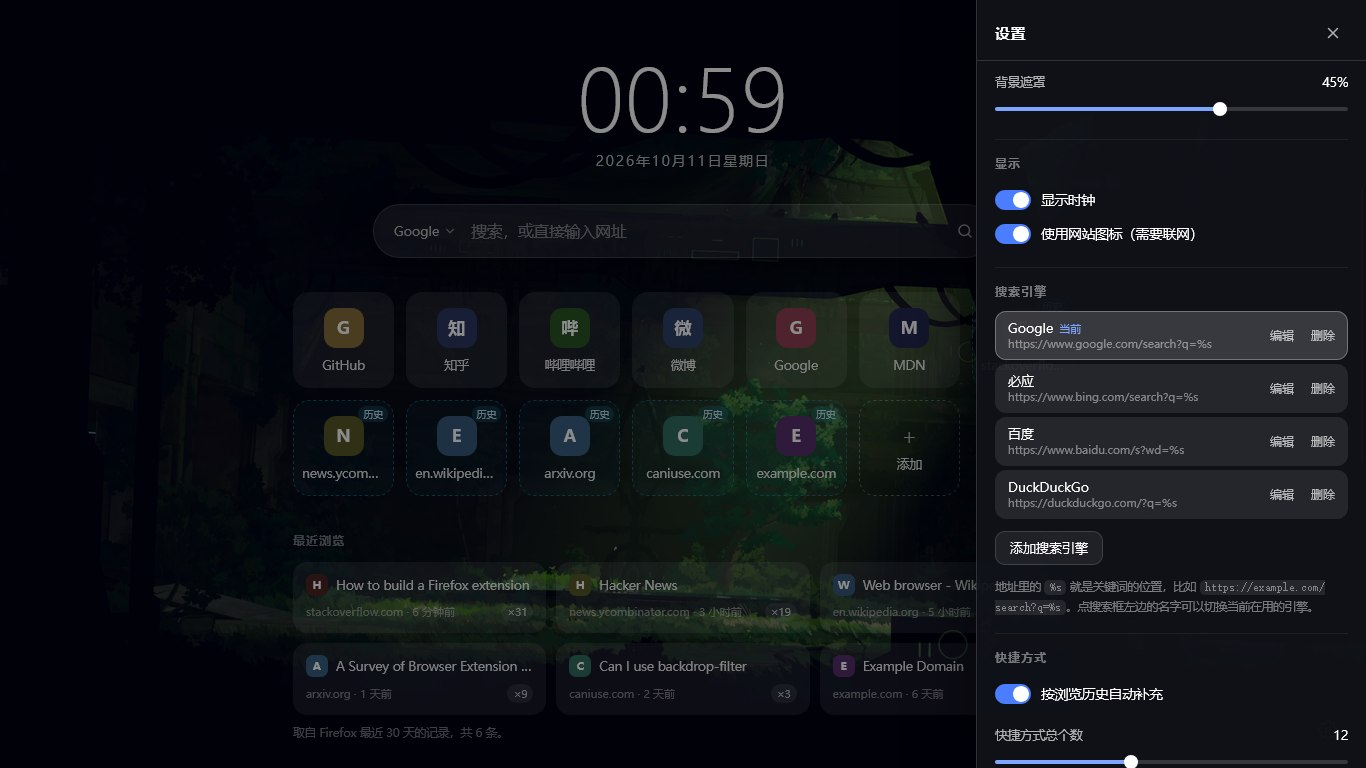
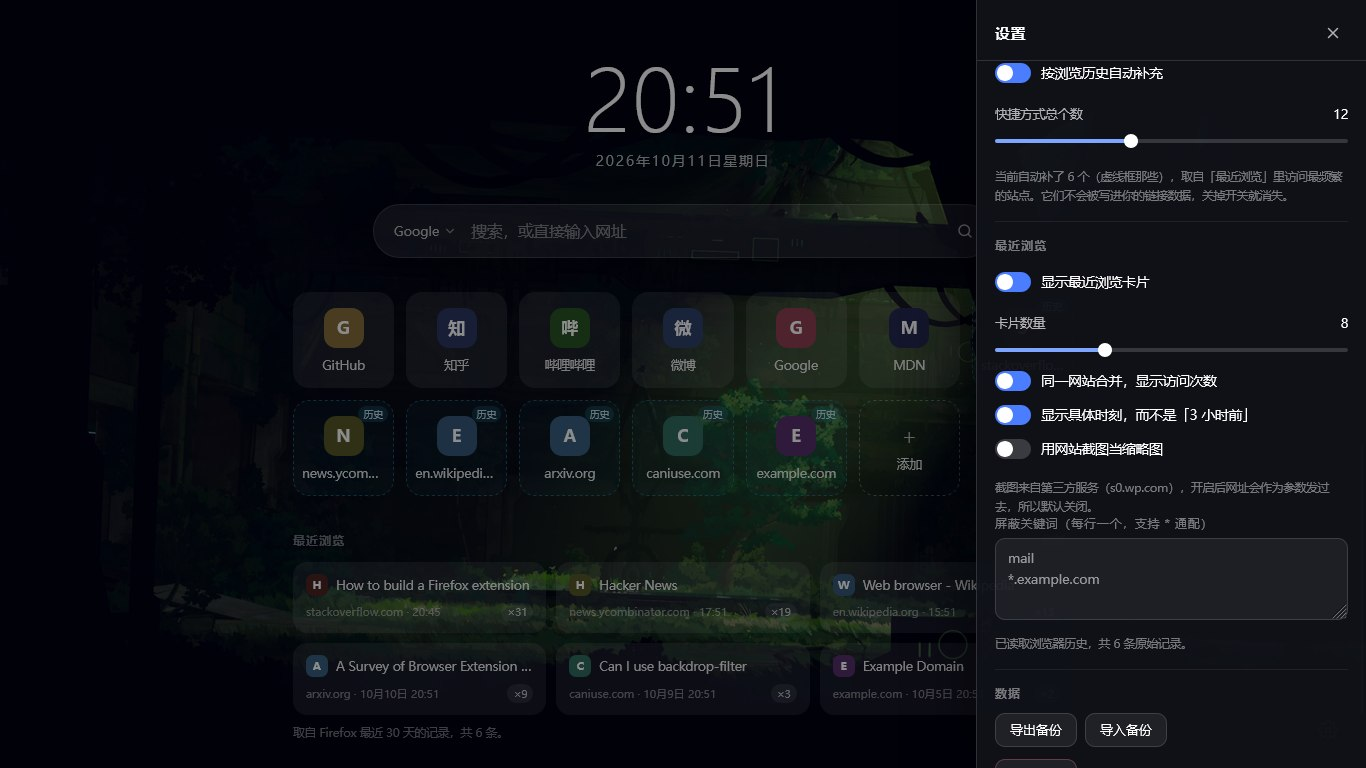
docs: 更新 AMO 素材，补上 1.0.7 的审核员备注与版本说明
- 审核员备注新增第 7 条，说明 1.0.7 起订阅了 history.onVisitRemoved 与
  onVisited —— 起因是删掉浏览记录后卡片不更新。这条专门写清楚：它只是重跑同一个
  页面内 history.search()，不新增权限、不写存储、不发网络，而且做了 800ms 节流
  合并与后台标签页跳过。审核员在源码里会看到 addListener，先说清楚省得来回问。
- 隐私政策的 Browsing history 一节补一段，同样说明监听只在本机、不存不发。
- 新增「版本说明（Release notes）」小节，中英文各一段可直接粘进 AMO 表单，
  并提示若这版同时含 1.0.6 的改动就把三条一起用。
- 设置面板截图重出：多了「显示具体时刻」开关，卡片也示范了绝对时间。
  另外两张截图没有变化，保持原样。
- 检查清单的版本号对齐 1.0.7。

diff --git a/docs/amo-listing.md b/docs/amo-listing.md
@@ -21,10 +21,35 @@
 | **Homepage** | 同上：`https://github.com/AlterWL/FoxHome` |
 | **Privacy policy** | **必须是能打开的 URL**。把第五节的文案放进本仓库的 `docs/privacy.md`（GitHub 会渲染成网页），然后填 `https://github.com/AlterWL/FoxHome/blob/main/docs/privacy.md` |
 | **Screenshots** | `docs/screenshot-home.jpg`、`docs/screenshot-engines.jpg`、`docs/screenshot-settings.jpg`（1366×768，是 AMO 建议的宽屏比例；最多 10 张） |
-| **Release notes** | 首次 listed 提交写"首个公开版本"即可，以后每次提交都顺手写一句改了什么 |
+| **Release notes** | 用下面那段「版本说明」，本次是 **1.0.7** |
 | **Notes to reviewer** | 第四节的备注，**强烈建议填** |
 | **渠道（最关键的一步）** | 上传那一步选 **listed（On this site）**，否则只会签名、不会公开列出 |
 | **最低 Firefox 版本** | 109（`manifest.json` 里的 `strict_min_version`；109 起支持 MV3） |
+
+### 版本说明（Release notes）
+
+每次提交 AMO 都要填一段。这次直接复制：
+
+**英文**
+
+```
+- Deleting history entries now updates the recent-visits cards right away,
+  instead of waiting for the page to be reopened.
+- Recent visits can show the exact time (20:31, or 10月9日 20:37 for older
+  entries) instead of "3 hours ago" — the system locale decides the wording.
+- Search engines can be added, edited and removed by the user (from 1.0.6).
+```
+
+**中文**
+
+```
+- 删掉浏览记录后，「最近浏览」卡片会立刻跟着更新，不再需要重开页面。
+- 「最近浏览」可以显示具体时刻（今天的显示 20:31，更早的显示 10月9日 20:37），
+  替代原来的「3 小时前」—— 设置面板里有新开关。
+- 搜索引擎支持自己增删改（1.0.6 起）。
+```
+
+> 如果你这次提交同时包含了 1.0.6 和 1.0.7 的改动（比如上一版还没传过），把上面三条一起用即可。
 
 ---
 
@@ -159,6 +184,15 @@ Hi — a few notes on this add-on's design, in case they help:
    storage — no new permission, no network request, no remote content. The URL
    must start with http(s) and contain a `%s` placeholder, so `javascript:` and
    similar schemes cannot be stored. The add-on only builds a navigation URL.
+
+7. Since 1.0.7 the add-on also subscribes to `history.onVisitRemoved` and
+   `history.onVisited`. Before that, deleting history entries left stale cards
+   on screen until the page was reopened. These listeners only schedule a re-run
+   of the same in-page `history.search()` query — they add no permission, write
+   nothing to storage, and send nothing anywhere. To keep the cost low the
+   refresh is debounced (800 ms, so a bulk delete results in one query) and is
+   skipped entirely while the page sits in a background tab; it runs when the
+   page becomes visible again.
 ```
 
 ---
@@ -187,6 +221,11 @@ stored by the add-on, not written to disk by the add-on, and not sent anywhere.
 
 You can disable the history-based features at any time in FoxHome's settings, or
 revoke the permission in `about:addons`.
+
+To keep the cards accurate, FoxHome also listens for `history.onVisited` and
+`history.onVisitRemoved` — for example so that deleting history entries updates
+the page instead of leaving stale cards behind. These listeners do nothing
+except trigger another in-page read; nothing is stored and nothing is sent.
 
 ## Search engines
 
